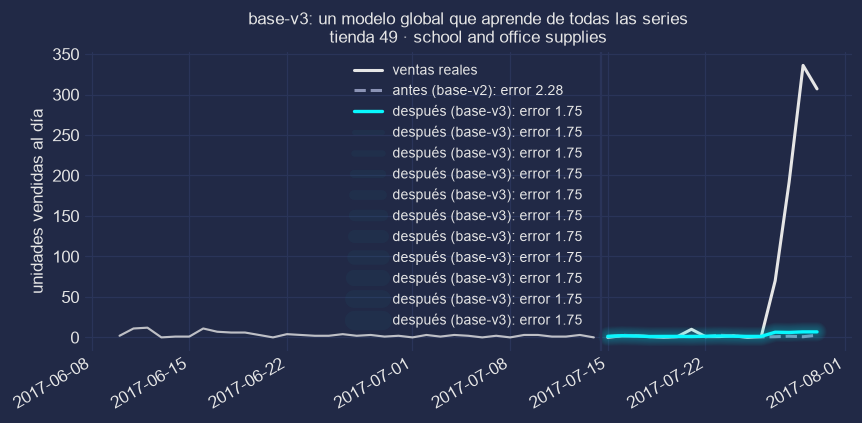
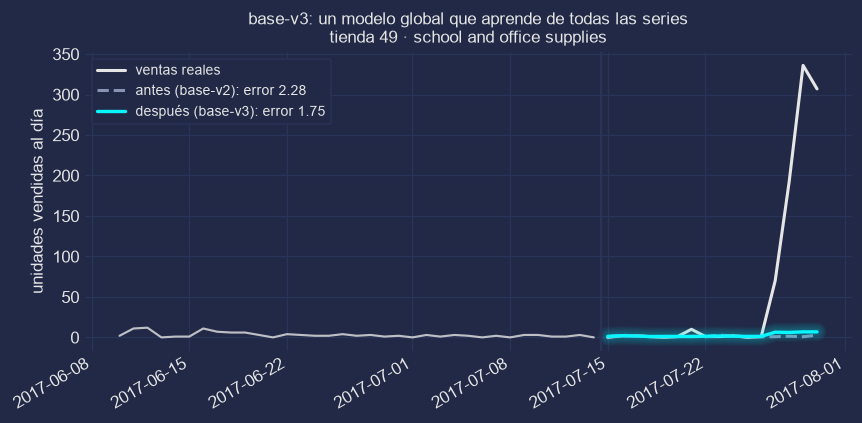
style(figures): use mplcyberpunk neon style for all README charts

Changed region(s): [[0.0905, 0.1537, 0.6937, 0.5225], [0.4524, 0.5532, 0.6937, 0.7683]]

diff --git a/scripts/make_figures.py b/scripts/make_figures.py
@@ -81,12 +81,12 @@ def ventas(train):
     d = train.groupby("date")["sales"].sum()
     fig, ax = plt.subplots(figsize=(10, 3.8))
     ax.plot(d.index, d.values / 1e3, color=MUTED, lw=0.6, label="diaria")
-    ax.plot(d.index, d.rolling(28, center=True).mean() / 1e3, color=ACCENT, lw=2, label="media de 4 semanas")
+    ma, = ax.plot(d.index, d.rolling(28, center=True).mean() / 1e3, color=ACCENT, lw=2, label="media de 4 semanas")
     for date, txt, off in [("2016-04-16", "terremoto", (10, 40)),
                            ("2014-01-01", "1 de enero:\ntiendas cerradas", (-95, 10))]:
         ax.annotate(txt, (pd.Timestamp(date), d.get(pd.Timestamp(date), 0) / 1e3), xytext=off,
                     textcoords="offset points", fontsize=9, color=WARN, arrowprops=dict(arrowstyle="->", color=WARN))
-    figstyle.glow(ax)
+    figstyle.glow(ax, lines=[ma])  # solo la media: el brillo en la serie diaria la vuelve borrosa
     ax.set_ylabel("miles de unidades")
     ax.set_title("Ventas totales por día (2013–2017): tendencia, picos de diciembre y huecos", loc="left")
     ax.legend(frameon=False)

diff --git a/scripts/make_theory_figures.py b/scripts/make_theory_figures.py
@@ -99,7 +99,7 @@ def draw(n, row, df, train, fold, out):
     ax.axvline(start - pd.Timedelta(hours=12), color=GRID, lw=1.5)
     ax.set_title(f"{TITLES[n]}\ntienda {s} · {f.lower()}", fontsize=11)
     ax.set_ylabel("unidades vendidas al día")
-    ax.legend(fontsize=9, loc="best")
+    ax.legend(fontsize=9, loc="upper left", frameon=True, facecolor=figstyle.BG, edgecolor=GRID, framealpha=0.9)
     fig.autofmt_xdate()
     IMG.mkdir(parents=True, exist_ok=True)
     fig.savefig(out, dpi=110, bbox_inches="tight")

diff --git a/scripts/figstyle.py b/scripts/figstyle.py
@@ -53,6 +53,9 @@ def glow(ax, under=False, lines=None):
     core = _core()
     if core is None:
         return
+    before = set(ax.get_lines())
     core.make_lines_glow(ax, lines=lines)
     if under:
         core.add_underglow(ax)
+    for ln in set(ax.get_lines()) - before:  # las copias del brillo no van a la leyenda
+        ln.set_label("_nolegend_")
